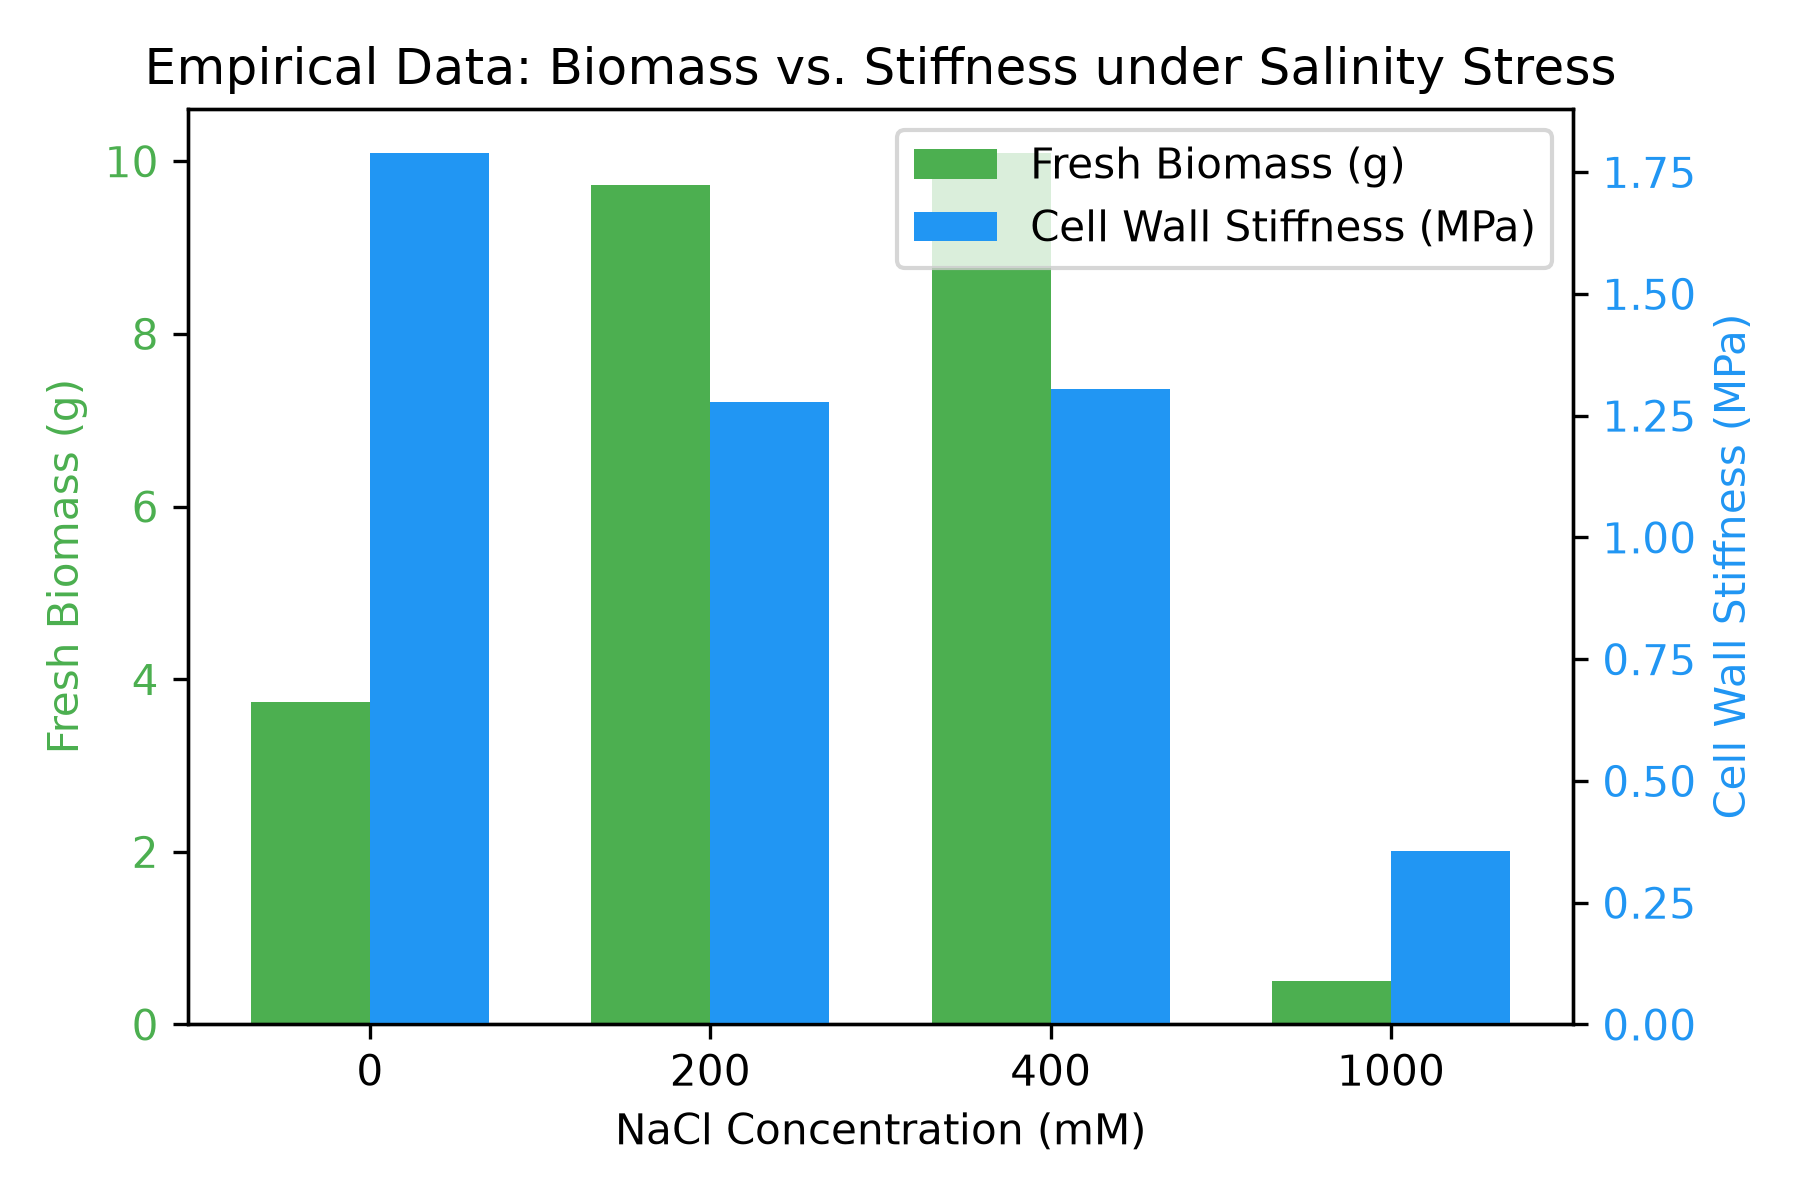
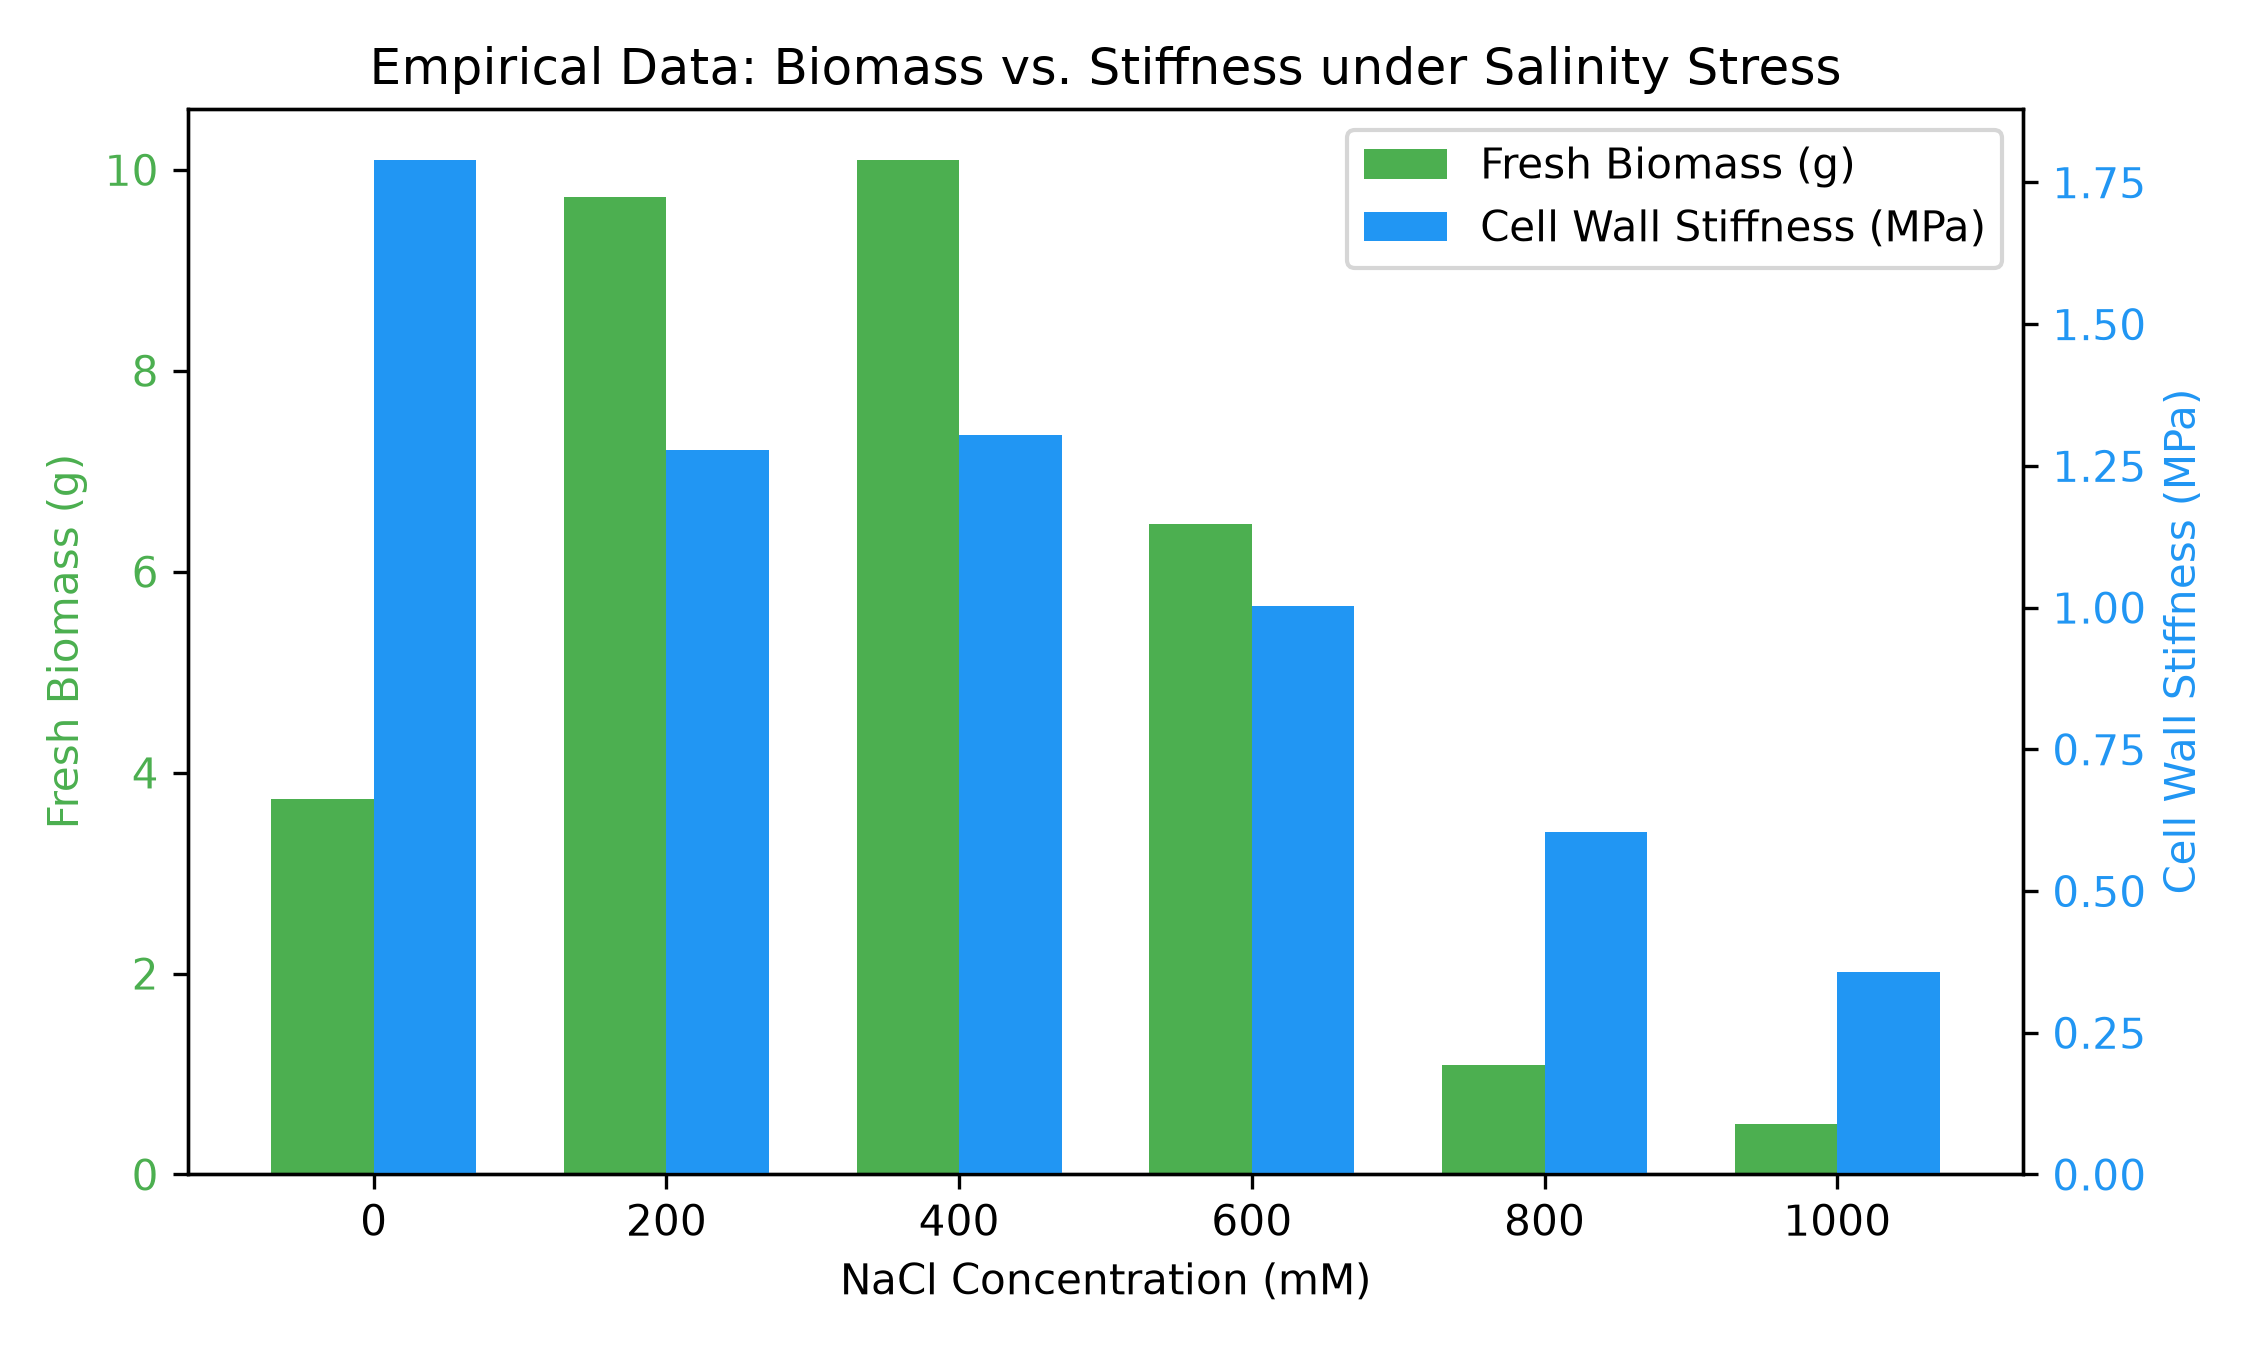
Update biomass model with complete 6-point dataset

diff --git a/app.py b/app.py
@@ -43,6 +43,15 @@ data_ciechocinek_stiffness_extra = """NaCl_mM,Stiffness
 600,1.003
 800,0.605"""
 
+# NEW (2026-08-08 / confirmed 2026-08-XX): Fresh Weight values for 600 and 800 mM received
+# from S. Cardenas Perez (Biomass_Ciech_and_Inow_Stefany_Cardenas.xlsx, "Średnia F.W." column).
+# Note: the same file lists 1000 mM Ciechocinek FW as 0.58 g, which differs from the published
+# Table S1 value (0.50 g) currently used below -- this discrepancy is pending clarification
+# from the data provider, so the 1000 mM point is intentionally left unchanged for now.
+data_ciechocinek_biomass_extra = """NaCl_mM,FW
+600,6.47
+800,1.09"""
+
 data_inowroclaw = """NaCl_mM,Stiffness,FW
 0,0.518,3.44
 200,0.278,5.85
@@ -52,6 +61,7 @@ data_inowroclaw = """NaCl_mM,Stiffness,FW
 df_ciech = pd.read_csv(io.StringIO(data_ciechocinek))
 df_inow = pd.read_csv(io.StringIO(data_inowroclaw))
 df_ciech_stiff_extra = pd.read_csv(io.StringIO(data_ciechocinek_stiffness_extra))
+df_ciech_fw_extra = pd.read_csv(io.StringIO(data_ciechocinek_biomass_extra))
 
 # Full Stiffness dataset (6 points): original 4 + the new 600/800 mM values
 df_ciech_stiffness = pd.concat(
@@ -59,10 +69,14 @@ df_ciech_stiffness = pd.concat(
     ignore_index=True
 ).sort_values('NaCl_mM').reset_index(drop=True)
 
-# Biomass dataset stays at 4 points until FW for 600/800 mM is received
-df_ciech_biomass = df_ciech[['NaCl_mM', 'FW']].copy()
+# Full Biomass dataset (6 points): original 4 (1000 mM kept at the published 0.50 g pending
+# clarification) + the newly confirmed 600/800 mM values
+df_ciech_biomass = pd.concat(
+    [df_ciech[['NaCl_mM', 'FW']], df_ciech_fw_extra],
+    ignore_index=True
+).sort_values('NaCl_mM').reset_index(drop=True)
 
-# Combined reference table for transparent display (FW is NaN/pending for 600 & 800 mM)
+# Combined reference table for transparent display
 df_ciech_combined = pd.merge(df_ciech_stiffness, df_ciech_biomass, on='NaCl_mM', how='outer').sort_values('NaCl_mM').reset_index(drop=True)
 
 TRAINING_POINTS_CIECH_STIFFNESS = sorted(df_ciech_stiffness['NaCl_mM'].tolist())
@@ -126,8 +140,10 @@ def compute_loo_cv(X, y, model_class, model_params=None):
 def get_model_comparison():
     """Compute LOO-CV metrics for all candidate models on both targets.
     Cached so the computation only runs once per session.
-    Note: Stiffness now uses n=6 points (600/800 mM added), while Biomass
-    still uses n=4 points pending FW data for 600/800 mM."""
+    Note: as of 2026-08-08, both Stiffness and Biomass use n=6 points (600/800 mM
+    added). The 1000 mM Biomass value stays at the published Table S1 figure
+    (0.50 g); S. Cardenas Perez confirmed a newer raw file's 0.58 g likely included
+    an extra high-variability replicate and should not replace it."""
     models = {
         'Random Forest': (RandomForestRegressor, {'n_estimators': 100, 'random_state': 42}),
         'Linear Regression': (LinearRegression, {}),
@@ -374,7 +390,7 @@ if not is_ciechocinek:
 # ==========================================
 # From here on: Ciechocinek only (full AI pipeline)
 # ==========================================
-current_df = df_ciech_combined  # transparent reference table: FW is pending for 600/800 mM
+current_df = df_ciech_combined  # transparent reference table (all 6 concentrations)
 m_biomass = model_biomass_c
 m_stiff = model_stiff_c
 
@@ -387,25 +403,14 @@ input_df = pd.DataFrame([[nacl_input]], columns=['NaCl_mM'])
 predicted_biomass = m_biomass.predict(input_df)[0]
 predicted_stiffness = m_stiff.predict(input_df)[0]
 
-# Extrapolation warnings (separate per target: Biomass model still has n=4, Stiffness now n=6)
-extrap_msg_biomass = get_extrapolation_warning(nacl_input, TRAINING_POINTS_CIECH_BIOMASS)
-extrap_msg_stiff = get_extrapolation_warning(nacl_input, TRAINING_POINTS_CIECH_STIFFNESS)
-
-if extrap_msg_biomass:
-    label = extrap_msg_biomass.replace("Extrapolation warning:", "Extrapolation warning (Biomass model, n=4):", 1) \
-        if extrap_msg_biomass.startswith("⚠") else extrap_msg_biomass.replace("Note:", "Note (Biomass model, n=4):", 1)
-    if label.startswith("⚠"):
-        st.warning(label)
+# Extrapolation warning: both models now share the same 6 training points
+# (0, 200, 400, 600, 800, 1000 mM), so a single shared warning is sufficient.
+extrap_msg = get_extrapolation_warning(nacl_input, TRAINING_POINTS_CIECH_STIFFNESS)
+if extrap_msg:
+    if extrap_msg.startswith("⚠"):
+        st.warning(extrap_msg)
     else:
-        st.caption(label)
-
-if extrap_msg_stiff:
-    label = extrap_msg_stiff.replace("Extrapolation warning:", "Extrapolation warning (Stiffness model, n=6):", 1) \
-        if extrap_msg_stiff.startswith("⚠") else extrap_msg_stiff.replace("Note:", "Note (Stiffness model, n=6):", 1)
-    if label.startswith("⚠"):
-        st.warning(label)
-    else:
-        st.caption(label)
+        st.caption(extrap_msg)
 
 # Display Metrics
 st.subheader("🧠 Expert System Analysis")
@@ -498,9 +503,8 @@ else:
 st.write("---")
 with st.expander("📊 Model Performance Evaluation (LOO-CV)", expanded=False):
     st.caption("**Leave-One-Out Cross-Validation** was used to evaluate model generalization. "
-              "The Stiffness model now uses n=6 training points (600 and 800 mM NaCl were added "
-              "on 2026-08-08), while the Biomass model still uses n=4 points pending Fresh Weight "
-              "data for those two concentrations. Each model is trained on n−1 points and tested "
+              "Both the Stiffness and Biomass models now use n=6 training points (600 and 800 mM "
+              "NaCl were added on 2026-08-08). Each model is trained on n−1 points and tested "
               "on the held-out point, repeated n times per target.")
 
     for target in ['Stiffness', 'Biomass']:
@@ -529,10 +533,9 @@ with st.expander("📊 Model Performance Evaluation (LOO-CV)", expanded=False):
                 "achieve higher R² on this small dataset, Random Forest was retained as the system's predictive "
                 "layer for two key reasons:\n\n"
                 "1. **Architectural scalability:** RF is non-parametric and improves as additional data points "
-                "become available without requiring structural code changes — as demonstrated by the Stiffness "
-                "model, which already expanded from 4 to 6 points (600 and 800 mM NaCl) without any code changes. "
-                "The Biomass model is expected to do the same once Fresh Weight data for those concentrations "
-                "is received.\n\n"
+                "become available without requiring structural code changes — as demonstrated by both the "
+                "Stiffness and Biomass models, which expanded from 4 to 6 points (600 and 800 mM NaCl) without "
+                "any code changes.\n\n"
                 "2. **System objective:** The primary contribution of this Expert System is the Explainable AI "
                 "inference layer, not predictive accuracy per se. The predictions serve as exploratory hypotheses "
                 "to be interpreted by the rule-based engine, not as definitive empirical measurements.")
@@ -552,13 +555,16 @@ point = alt.Chart(user_pred_df).mark_point(color='#d32f2f', size=250, filled=Tru
     x='NaCl_mM:Q', y='FW:Q', tooltip=['NaCl_mM', 'FW']
 )
 st.altair_chart(area + line + point)
-st.caption("ℹ Biomass trend is plotted from the 4 concentrations with confirmed Fresh Weight data "
-           "(0, 200, 400, 1000 mM). 600 and 800 mM are pending.")
+st.caption("ℹ Biomass trend is plotted from all 6 tested concentrations (0, 200, 400, 600, "
+           "800, 1000 mM).")
 
 st.write("---")
 st.subheader(f"📊 Reference Data - {selected_pop}")
-st.caption("Stiffness is available for all 6 tested concentrations. Fresh Weight (biomass) for "
-           "600 and 800 mM is pending from the data provider and shown as blank below.")
+st.caption("Stiffness and Fresh Weight are now available for all 6 tested concentrations. "
+           "Note: the 1000 mM Fresh Weight value (0.50 g) matches the published Table S1. "
+           "A separate raw data file listed 0.58 g for the same point, but S. Cárdenas Pérez "
+           "confirmed this likely reflects an additional high-variability replicate, so the "
+           "published 0.50 g value was retained.")
 display_df = current_df.rename(columns={
     'NaCl_mM': 'NaCl (mM)',
     'Stiffness': 'Stiffness (MPa)',
@@ -628,10 +634,14 @@ def create_report(current_pop, current_nacl, current_biomass, current_stiffness,
 
     is_current_saved = False
     if not log_df.empty:
-        last_row = log_df.iloc[-1]
-        if (last_row['Population'] == current_pop and
-            last_row['NaCl (mM)'] == current_nacl and
-            round(last_row['Predicted Biomass (g)'], 2) == round(current_biomass, 2)):
+        # Check ALL rows, not just the last one -- otherwise a live prediction that
+        # matches an earlier (non-last) log entry gets duplicated in the report.
+        matches = log_df[
+            (log_df['Population'] == current_pop) &
+            (log_df['NaCl (mM)'] == current_nacl) &
+            (log_df['Predicted Biomass (g)'].round(2) == round(current_biomass, 2))
+        ]
+        if not matches.empty:
             is_current_saved = True
 
     if not is_current_saved:
@@ -682,7 +692,49 @@ def create_report(current_pop, current_nacl, current_biomass, current_stiffness,
         pdf.set_font('DejaVu', '', 10)
         pdf.multi_cell(0, 6, f'   {clean_text}')
 
-    pdf.ln(10)
+    # --- Global Model Reliability Summary ---
+    # LOO-CV metrics describe the trained model as a whole and are identical for every
+    # scenario above -- they do not vary with the selected NaCl concentration, so this
+    # section appears once rather than being repeated per analysis.
+    pdf.ln(8)
+    pdf.set_draw_color(150, 150, 150)
+    pdf.line(10, pdf.get_y(), 200, pdf.get_y())
+    pdf.ln(5)
+
+    pdf.set_font('DejaVu', 'B', 13)
+    pdf.set_text_color(52, 152, 219)
+    pdf.cell(0, 8, 'Model Reliability (Leave-One-Out Cross-Validation)', ln=True)
+    pdf.set_text_color(0, 0, 0)
+    pdf.set_font('DejaVu', '', 9)
+    pdf.multi_cell(0, 5.5,
+        'The metrics below describe the trained Random Forest model as a whole and apply '
+        'equally to every scenario in this report -- they do not change based on which '
+        'NaCl concentration is examined.')
+    pdf.ln(2)
+
+    rf_rows = df_model_comparison[df_model_comparison['Model'] == 'Random Forest']
+    pdf.set_font('DejaVu', 'B', 10)
+    pdf.cell(45, 6, 'Target', border=1)
+    pdf.cell(20, 6, 'n', border=1, align='C')
+    pdf.cell(38, 6, 'R\u00b2', border=1, align='C')
+    pdf.cell(38, 6, 'RMSE', border=1, align='C')
+    pdf.cell(38, 6, 'MAE', border=1, align='C', ln=True)
+    pdf.set_font('DejaVu', '', 10)
+    for _, row in rf_rows.iterrows():
+        pdf.cell(45, 6, str(row['Target']), border=1)
+        pdf.cell(20, 6, str(row['N']), border=1, align='C')
+        pdf.cell(38, 6, f"{row['R\u00b2']:.4f}", border=1, align='C')
+        pdf.cell(38, 6, f"{row['RMSE']:.4f}", border=1, align='C')
+        pdf.cell(38, 6, f"{row['MAE']:.4f}", border=1, align='C', ln=True)
+
+    pdf.ln(3)
+    pdf.set_font('DejaVu', 'I', 9)
+    pdf.multi_cell(0, 5.5,
+        'Random Forest was retained as the predictive layer despite not always achieving the '
+        'highest cross-validated R\u00b2 on this small dataset, for architectural scalability '
+        'and explainability reasons (see manuscript Section 5 for details).')
+
+    pdf.ln(8)
     pdf.set_font('DejaVu', 'I', 9)
     pdf.cell(0, 8, 'Data Source: Cárdenas Pérez et al. (2026), Scientific Reports 16, 964.', ln=True)
 

diff --git a/generate_paper_figures.py b/generate_paper_figures.py
@@ -7,15 +7,21 @@ import io
 # ==========================================
 # 1. DATA PREPARATION
 # ==========================================
-# Fresh Weight (biomass): still only available for the original 4 concentrations
+# Fresh Weight (biomass): complete for all 6 concentrations as of 2026-08-09.
+# 600/800 mM confirmed by S. Cardenas Perez (Biomass_Ciech_and_Inow_Stefany_Cardenas.xlsx,
+# "Średnia F.W." column). The 1000 mM value stays at the published Table S1 figure
+# (0.50 g) -- a separate raw file's 0.58 g was confirmed by the data provider to likely
+# reflect an extra high-variability replicate and was not used.
 data_ciech_fw = """NaCl_mM,FW
 0,3.74
 200,9.73
 400,10.10
+600,6.47
+800,1.09
 1000,0.50"""
 df_fw = pd.read_csv(io.StringIO(data_ciech_fw))
 
-# Stiffness: now available for all 6 concentrations (600/800 mM added 2026-08-08,
+# Stiffness: complete for all 6 concentrations (600/800 mM added 2026-08-08,
 # from Force_Curve_Analysis_Ciechocinek_600_800__080726.xlsx, "Full Table" sheet)
 data_ciech_stiffness = """NaCl_mM,Stiffness
 0,1.790
@@ -26,7 +32,7 @@ data_ciech_stiffness = """NaCl_mM,Stiffness
 1000,0.357"""
 df_stiff = pd.read_csv(io.StringIO(data_ciech_stiffness))
 
-# Combined, ordered by concentration; FW is NaN (pending) for 600 & 800 mM
+# Combined, ordered by concentration -- both variables now complete for all 6 points
 df = pd.merge(df_stiff, df_fw, on='NaCl_mM', how='outer').sort_values('NaCl_mM').reset_index(drop=True)
 
 # Correlation matrix from Table S2 (Using the exact variables we use in the app)
@@ -50,14 +56,7 @@ fig1, ax1 = plt.subplots(figsize=(7.5, 4.5))
 x = np.arange(len(df['NaCl_mM']))
 width = 0.35
 
-# FW bars: real values where available, 0-height placeholder + "pending" label where missing
-fw_vals = df['FW'].fillna(0)
-bars1 = ax1.bar(x - width/2, fw_vals, width, label='Fresh Biomass (g)', color='#4caf50')
-for xi, (val, is_missing) in enumerate(zip(df['FW'], df['FW'].isna())):
-    if is_missing:
-        ax1.text(xi - width/2, 0.15, 'pending', rotation=90, ha='center', va='bottom',
-                  fontsize=7, color='#4caf50', style='italic')
-
+bars1 = ax1.bar(x - width/2, df['FW'], width, label='Fresh Biomass (g)', color='#4caf50')
 ax1.set_ylabel('Fresh Biomass (g)', color='#4caf50')
 ax1.tick_params(axis='y', labelcolor='#4caf50')
 
